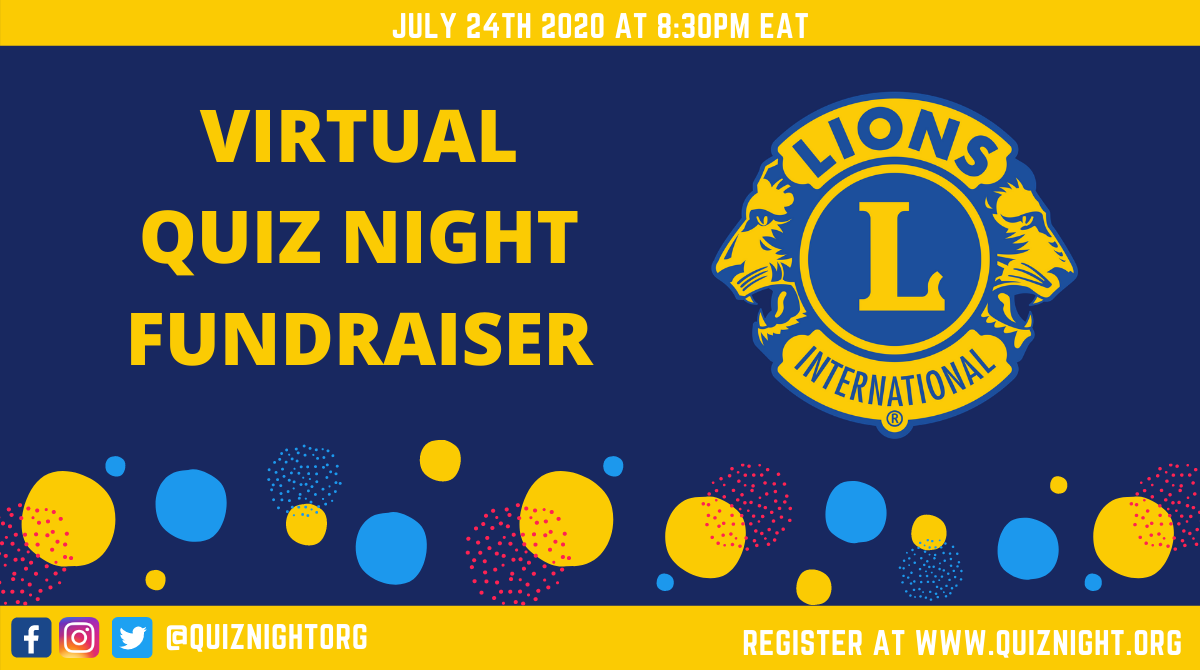
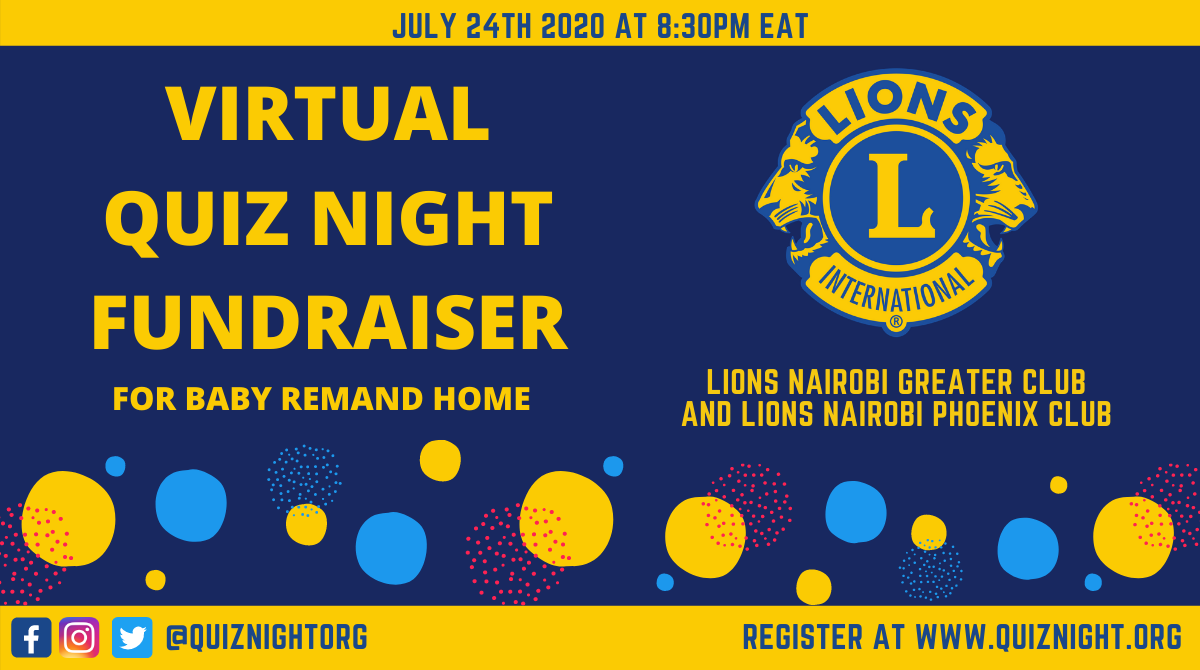
updating text to include more Lions information and Baby Remand info

diff --git a/index.html b/index.html
@@ -86,10 +86,11 @@
             <div
               class="row align-items-center justify-content-between no-gutters"
             >
-              <div class="col-xl-2 col-lg-2">
+              <div class="col-xl-4 col-lg-4">
                 <div class="logo-img">
                   <a href="index.html">
                     <img src="img/logo.png" alt="" />
+                    <img src="img/lions/lionslogo.png" alt="" />
                   </a>
                 </div>
               </div>
@@ -110,9 +111,9 @@
               <div class="col-xl-9">
                 <div class="title_text">
                   <h3>
-                    Virtual <br />
-                    Quiz Night <br />
-                    Fundraiser: LIONS Edition
+                    Virtual Quiz Night<br />
+                    Fundraiser<br />
+                    <!-- Hosted by  -->
                   </h3>
                   <a href="#registrationform" class="boxed-btn-white">Register Now!</a>
                 </div>
@@ -168,20 +169,20 @@
                     <div class="col-xl-4 col-md-6 col-lg-4">
                       <div class="single_date">
                         <i class="ti-user"></i>
-                        <span>USD$4000+ raised!</span>
+                        <span>USD$5000+ raised!</span>
                       </div>
                     </div>
                     <div class="col-xl-5 col-md-6 col-lg-5">
                       <div class="single_date">
                         <i class="ti-world"></i>
-                        <span>580+ people fed</span>
+                        <span>2000+ people fed</span>
                       </div>
                     </div>
 
                     <div class="col-xl-3 col-md-12 col-lg-3">
                       <div class="single_date">
                         <i class="ti-star"></i>
-                        <span>250+ Food Bags Distributed</span>
+                        <span>400+ Food Bags Distributed</span>
                       </div>
                     </div>
                   </div>
@@ -211,11 +212,29 @@
                   Virtual Quiz Night Fundraiser
                 </h3>
               </div>
-              <p>
+              <!-- <p>
                 COVID-19 has affected us all in many different ways. One thing that we're all doing to flatten the curve is practice social distancing, and staying home as much as possible.<br /> <br />
-                Instead of sitting alone at home, why not have some fun in a virtual pub-style quiz night? Convince your friends to join your team virtually or join one at random. Think you have what it takes to fly solo? Then enter as a team of one! The 2nd edition of Quiz Night will be focused on <a href="https://lionsclubs.org/en" target="_blank" rel="noopener noreferrer">Lions International!</a><br /><br />
-                All proceeds go to people living in Kenyan Slums. 60% of the Kenyan population live in slums, and 50% are unemployed, with the majority being unskilled workers, meaning many have been laid off because of COVID-19. One of the large concerns right now is that these people literally do not and cannot get basic necessities like food. A recent food distribution attempt resulted in a stampede and many people were injured. All profits raised will go directly to helping these people.
-              </p>
+                Instead of sitting alone at home, why not have some fun in a virtual pub-style quiz night? Convince your friends to join your team virtually or join one at random. Think you have what it takes to fly solo? Then enter as a team of one!
+              </p> -->
+
+              <!-- <div class="container-fluid p-0"> -->
+                <div
+                  class="row align-items-center justify-content-between no-gutters"
+                >
+                  <div class="col-xl-3 col-lg-3">
+                    <div class="lions-logo">
+                      <img src="img/lions/lionslogo.png" alt="" />
+                    </div>
+                  </div>
+                  <div class="col-xl-9 col-lg-9">
+                    <p>
+                      COVID-19 has affected us all in many ways. Since we all need to be home before 9:00pm, why not take part in a virtual quiz night and help raise some funds for folks in need.<br /><br />
+                      This quiz night event is hosted in partnership with Lions Nairobi Greater Club AND Lions Nairobi Phoenix Club.<br /><br />
+                      All funds raised will go to the Baby Remand Home, a home to give children a chance at a better future.
+                    </p>
+                  </div>
+                </div>
+              <!-- </div> -->
               <a href="#registrationform" class="boxed-btn-red">Register now!</a>
             </div>
           </div>
@@ -364,7 +383,7 @@
                   style=""
                 >
                   <div class="card-body">
-                    The money collected from this fundraiser will go to frontline workers and folks laid off as a direct result of COVID-19, in Kenya. We'll be partnering with a distribution channel to help get food and essential resources to the people who need it most.
+                    The money collected from this fundraiser will go to providing the Baby Remand Home with necessary supplies such as food.
                   </div>
                 </div>
               </div>

diff --git a/css/style.css b/css/style.css
@@ -867,6 +867,11 @@ h3 {
   width: 120px;
 }
 
+.lions-logo img,
+.lions-logo {
+  width: 230px;
+}
+
 @media (max-width: 767px) {
   /* line 6, C:/Users/SPN Graphics/Desktop/CL September/209/HTML/scss/_header.scss */
   .header-area .main-header-area {
